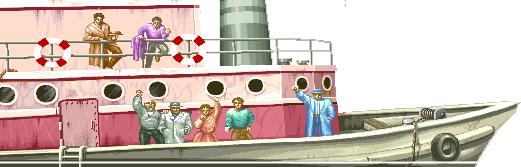
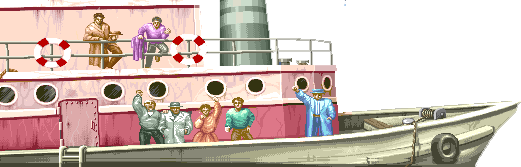
commit

Changed region(s): [[0.0, 0.9281, 0.9213, 0.988]]

diff --git a/project 6 - street fighter 2/store/environment/environment-draw/environment-draw.store.js b/project 6 - street fighter 2/store/environment/environment-draw/environment-draw.store.js
@@ -1,24 +1,76 @@
+import {
+    floorImage,
+    backgroudImage,
+    boatImage,
+    gangstersImage,
+    gangstersSprites,
+    redwomanImage,
+    redwomanSprites,
+    greenguyImage,
+    greenguySprites,
+    blueSuitImage,
+    blueSuitSprites,
+    flagImage,
+    flagSprites,
+} from './images-and-sprites/images-and-sprites.js'
 
-const floorImage = new Image();         floorImage.src = '/img/floor.png'
-const backgroudImage = new Image();     backgroudImage.src = '/img/background.png'
-const boatImage = new Image();          boatImage.src = '/img/boat.png'
+const boatOffsetY = 13
 
 export const environmentDraw = {
     state: {
         floorImage,
         backgroudImage,
         boatImage,
+        gangstersImage,
+        redwomanImage,
+        greenguyImage,
+        blueSuitImage,
+        flagImage,
     }, 
     actions: {
         drawEnvironment() {
+            actions.setEnvironmnentAnimations()
+            actions.drawStaticImages()
+            actions.drawAnimatedImages()
+        },
+        setEnvironmnentAnimations() {
+            const { increaseFrameCounter, setFlagFrame, setBluesSuitFrame, setGreenguyFrame, setRedwomanFrame, setGangstersFrame, setBoatVertical } = store.environmentAnimation.actions
+            const { boatDistanceVerticalArray } =  store.environment.state
+            const { isTimeForFrameChange } =  store.environmentAnimation.getters
+
+            increaseFrameCounter()
+            if ( !isTimeForFrameChange ) return
+
+            setBoatVertical( boatDistanceVerticalArray, (frame, sprites) => store.environment.state.boatDistanceVertical = sprites[ frame ] )
+            setFlagFrame( flagSprites, (frame, sprites) => state.flagImage.src = sprites[ frame ] )
+            setBluesSuitFrame( blueSuitSprites, (frame, sprites) => state.blueSuitImage.src = sprites[ frame ] )
+            setGreenguyFrame( greenguySprites, (frame, sprites) => state.greenguyImage.src = sprites[ frame ] )
+            setRedwomanFrame( redwomanSprites, (frame, sprites) => state.redwomanImage.src = sprites[ frame ] )
+            setGangstersFrame( gangstersSprites, (frame, sprites) => state.gangstersImage.src = sprites[ frame ] )
+        },
+        drawStaticImages() {
             const { ctx } = store.canvas.getters
-            const { distanceFromCenter, boatDistanceFromCenter } = store.environment.getters
+            const { distanceFromCenter, boatDistanceFromCenter  } = store.environment.getters
+            const { boatDistanceVertical } = store.environment.state
 
             ctx.drawImage( state.backgroudImage, (170 + distanceFromCenter), 0, 392, 176, 0, 0, 392, 176)
-            ctx.drawImage( state.boatImage, (200 + boatDistanceFromCenter), 0, 392, 167, 0, 0, 392, 167)
+            ctx.drawImage( state.boatImage, (200 + boatDistanceFromCenter), boatDistanceVertical, 392, 167, 0, boatOffsetY, 392, 167)
             ctx.drawImage( state.floorImage, (250 + distanceFromCenter), 0, 392, 72, 0, 176, 392, 72)
+            
+        },
+        drawAnimatedImages() {
+            const { ctx } = store.canvas.getters
+            const { distanceFromCenter, boatDistanceFromCenter } = store.environment.getters
+            const { boatDistanceVertical } = store.environment.state
+
+            ctx.drawImage( state.flagImage, 390 - distanceFromCenter, 20 - boatDistanceVertical )
+            ctx.drawImage( state.blueSuitImage, 88 - boatDistanceFromCenter, 82 - boatDistanceVertical + boatOffsetY )
+            ctx.drawImage( state.greenguyImage, 24 - boatDistanceFromCenter, 90 - boatDistanceVertical + boatOffsetY )
+            ctx.drawImage( state.redwomanImage, -8 - boatDistanceFromCenter, 90 - boatDistanceVertical + boatOffsetY )
+            ctx.drawImage( state.gangstersImage, -72 - boatDistanceFromCenter, 90 - boatDistanceVertical + boatOffsetY )
         }
+        
     }
 }
 
-const { state } = environmentDraw
+const { state, actions } = environmentDraw

diff --git a/project 6 - street fighter 2/store/environment/environment-animation/environment-animation.store.js b/project 6 - street fighter 2/store/environment/environment-animation/environment-animation.store.js
@@ -1,0 +1,106 @@
+
+export const environmentAnimation = {
+    state: {
+        frameCounter: 0,
+        frameRate: 20,
+
+        //////////////////
+
+        boatVerticalFrame: 0,
+        boatVerticalFrameDelta: 1,
+
+        flagFrame: 0,
+        flagFrameDelta: 1,
+        
+        gangstersFrame: 0,
+        gangstersFrameDelta: 1,
+
+        blueSuitFrame: 0,
+        blueSuitFrameDelta: 1,
+
+        greenguyFrame: 0,
+        greenguyFrameDelta: 1,
+
+        redwomanFrame: 0,
+        redwomanFrameDelta: 1,
+    },
+    getters: {
+        get isTimeForFrameChange() {
+            return state.frameCounter % state.frameRate === 0
+        }
+    },
+    actions: {
+        increaseFrameCounter() {
+            state.frameCounter++
+        },
+        
+        setBoatVertical() {
+            actions.handleFrame({
+                frame: 'boatVerticalFrame',
+                frameDelta: 'boatVerticalFrameDelta',
+                sprites: arguments[ 0 ],
+                callbackFn: arguments[ 1 ]
+            })
+        },
+        setFlagFrame() {
+            actions.handleFrame({
+                frame: 'flagFrame',
+                frameDelta: 'flagFrameDelta',
+                sprites: arguments[ 0 ],
+                callbackFn: arguments[ 1 ]
+            })
+        },
+        setBluesSuitFrame() {
+            actions.handleFrame({
+                frame: 'blueSuitFrame',
+                frameDelta: 'blueSuitFrameDelta',
+                sprites: arguments[ 0 ],
+                callbackFn: arguments[ 1 ]
+            })
+        },
+        setGreenguyFrame() {
+            actions.handleFrame({
+                frame: 'greenguyFrame',
+                frameDelta: 'greenguyFrameDelta',
+                sprites: arguments[ 0 ],
+                callbackFn: arguments[ 1 ]
+            })
+        },
+        setRedwomanFrame() {
+            actions.handleFrame({
+                frame: 'redwomanFrame',
+                frameDelta: 'redwomanFrameDelta',
+                sprites: arguments[ 0 ],
+                callbackFn: arguments[ 1 ]
+            })
+        },
+        setGangstersFrame() {
+            actions.handleFrame({
+                frame: 'gangstersFrame',
+                frameDelta: 'gangstersFrameDelta',
+                sprites: arguments[ 0 ],
+                callbackFn: arguments[ 1 ]
+            })
+        },
+
+        /////////////////////////
+
+        handleFrame({ sprites, frame, frameDelta, callbackFn }) {
+            if ( state[ frame ] < 0 || state[ frame ] === sprites.length) {
+                state[ frameDelta ] *= -1
+
+                state[ frame ] += state[ frameDelta ]
+                state[ frame ] += state[ frameDelta ]
+            }
+            
+            // console.log({ image: sprites[ state[ frame ] ], [frame]: state[ frame ], [frameDelta]: state[ frameDelta ] })
+            
+            callbackFn( state[ frame ], sprites )
+            
+            state[ frame ] += state[ frameDelta ]
+
+        }
+    }
+}
+
+const { state, getters, actions } = environmentAnimation

diff --git a/project 6 - street fighter 2/store/environment/environment-draw/images-and-sprites/images-and-sprites.js b/project 6 - street fighter 2/store/environment/environment-draw/images-and-sprites/images-and-sprites.js
@@ -1,0 +1,35 @@
+    
+const floorImage = new Image();         floorImage.src = '/img/floor.png'
+const backgroudImage = new Image();     backgroudImage.src = '/img/background.png'
+const boatImage = new Image();          boatImage.src = '/img/boat.png'
+
+const gangstersImage = new Image()
+const gangstersSprites = [ '/img/gangsters1.png', '/img/gangsters2.png', '/img/gangsters3.png' ]
+
+const redwomanImage = new Image()
+const redwomanSprites = [ '/img/redwoman1.png', '/img/redwoman2.png', '/img/redwoman3.png' ]
+
+const greenguyImage = new Image()
+const greenguySprites = [ '/img/greenguy1.png', '/img/greenguy2.png' ]
+
+const blueSuitImage = new Image()
+const blueSuitSprites = [ '/img/bluesuit2.png', '/img/bluesuit3.png', '/img/bluesuit2.png', '/img/bluesuit1.png' ]
+
+const flagImage = new Image()
+const flagSprites = [ '/img/flag1.png', '/img/flag2.png', '/img/flag3.png' ]
+
+export {
+    floorImage,
+    backgroudImage,
+    boatImage,
+    gangstersImage,
+    gangstersSprites,
+    redwomanImage,
+    redwomanSprites,
+    greenguyImage,
+    greenguySprites,
+    blueSuitImage,
+    blueSuitSprites,
+    flagImage,
+    flagSprites,
+}

diff --git a/project 6 - street fighter 2/store/store.js b/project 6 - street fighter 2/store/store.js
@@ -5,6 +5,7 @@ import { environment } from './environment/environment.store.js'
 import { environmentMovement } from './environment/environment-movement/environment-movement.store.js'
 import { environmentDraw } from './environment/environment-draw/environment-draw.store.js'
 import { gameLoop } from './game-loop/game-loop.store.js'
+import { environmentAnimation } from './environment/environment-animation/environment-animation.store.js'
 
 export default {
     canvas,
@@ -13,5 +14,6 @@ export default {
     environment,
     environmentMovement,
     environmentDraw,
-    gameLoop
+    gameLoop,
+    environmentAnimation,
 }

diff --git a/project 6 - street fighter 2/app.js b/project 6 - street fighter 2/app.js
@@ -3,12 +3,3 @@ import store from '/store/store.js'
 window.store = store
 
 store.gameLoader.actions.loadGame()
-
-/**
-const blueSuitImage = new Image()
-const blueSuitSprites = [ '/img/bluesuit2.png', '/img/bluesuit3.png', '/img/bluesuit2.png', '/img/bluesuit1.png' ]
-
-let frameCounter = 0,
-    frame = 0,
-    frameDelta = 1
- */

diff --git a/project 6 - street fighter 2/index.html b/project 6 - street fighter 2/index.html
@@ -6,6 +6,7 @@
     <meta name="viewport" content="width=device-width, initial-scale=1.0">
     <title>Street Fighter II</title>
     <link rel="stylesheet" href="style.css" />
+    <link rel="icon" type="image/png" href="favicon.png" />
 </head>
 <body>
     <canvas id="canvas" width="392" height="248"></canvas>

diff --git a/project 6 - street fighter 2/store/environment/environment.store.js b/project 6 - street fighter 2/store/environment/environment.store.js
@@ -2,8 +2,12 @@
 export const environment = {
     state: {
         distanceFromCenter: 0,
+        
         worldLeftEdge: -150,
         worldRightEdge: 205,
+
+        boatDistanceVerticalArray: [ 0, 2, 4, 2 ],
+        boatDistanceVertical: 0,
     },
     getters: {
         get distanceFromCenter() {

diff --git a/project 6 - street fighter 2/style.css b/project 6 - street fighter 2/style.css
@@ -6,5 +6,5 @@
 #canvas {
     background: #aaa;
     display: block;
-    margin: 100px auto;
+    margin: 50px auto;
 }
